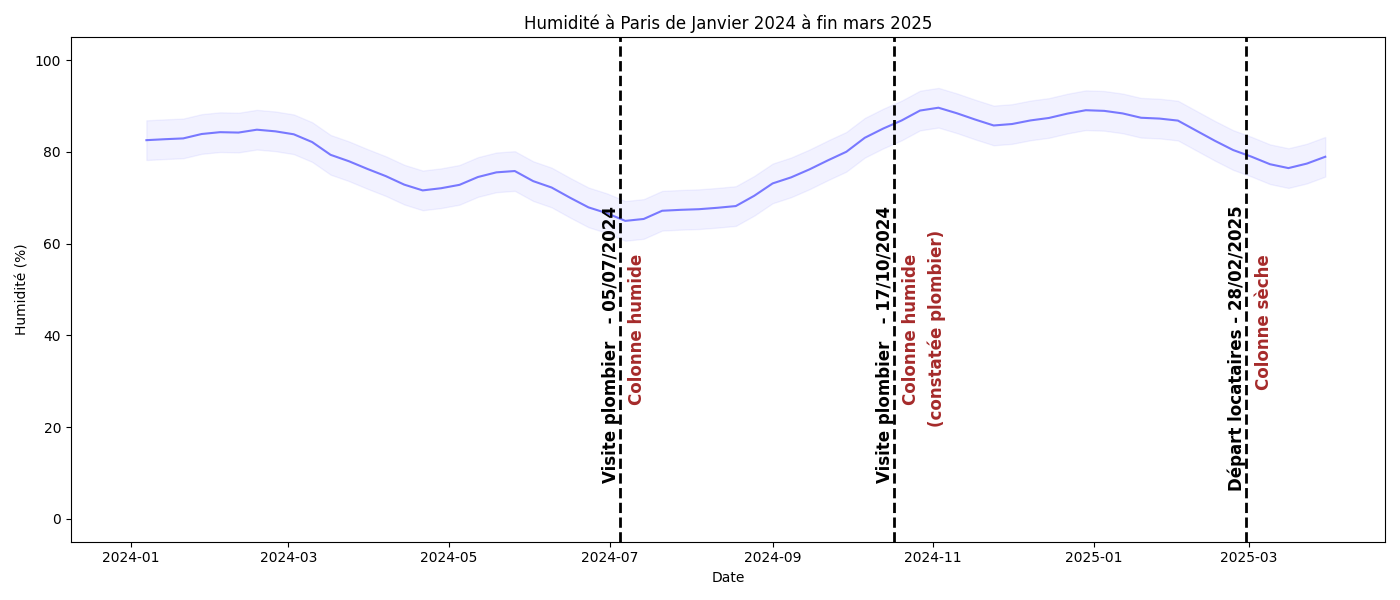
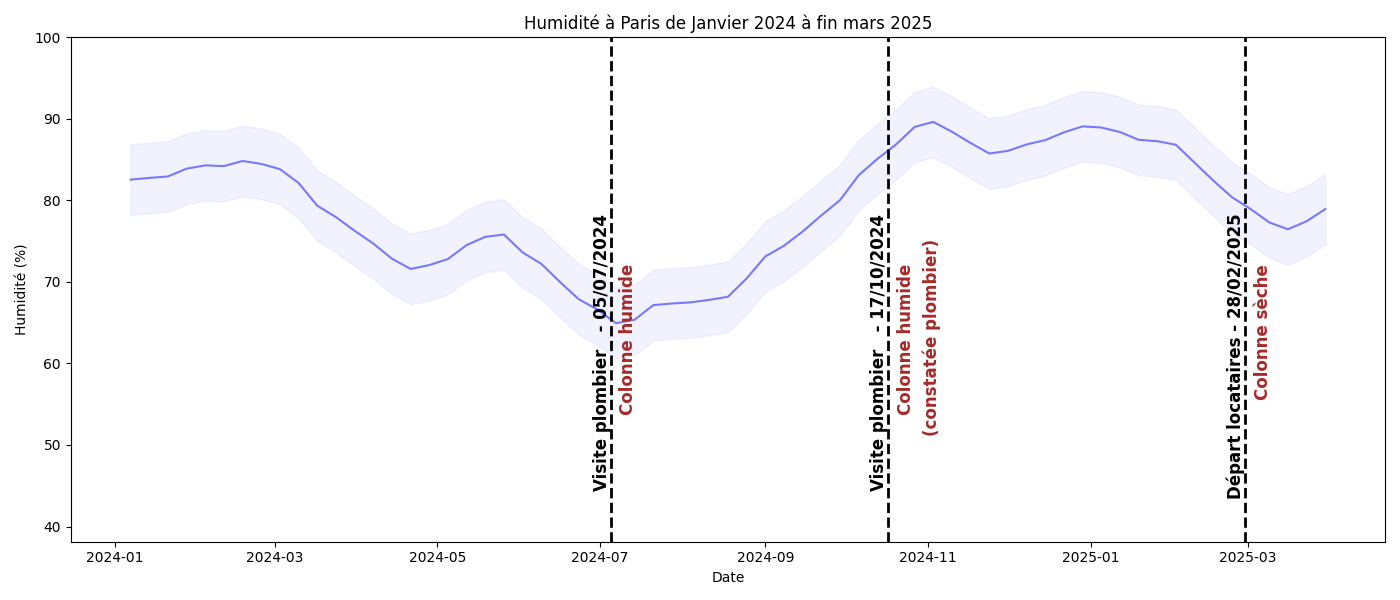
adding daily data plots + setting canvas dimensions for smoothed data

diff --git a/scripts/plot.py b/scripts/plot.py
@@ -58,14 +58,14 @@ def add_annotations(ax):
     for date_str, label, wetness in ANNOTATIONS:
         date = pd.to_datetime(date_str)
         ax.axvline(x=date, color='black', linestyle='--', linewidth=2)
-        ax.text(date, ax.get_ylim()[1] * 0.65, label,
+        ax.text(date, ax.get_ylim()[0] * 0.35 + ax.get_ylim()[1] * 0.65, label,
                 rotation=90, color='black', fontsize=12, fontweight='bold',
                 verticalalignment='top', horizontalalignment='right')
-        ax.text(date + dt.timedelta(days=10), ax.get_ylim()[1] * 0.55, wetness,
+        ax.text(date + dt.timedelta(days=10), ax.get_ylim()[0] * 0.45 + ax.get_ylim()[1] * 0.55, wetness,
                 rotation=90, color='brown', fontsize=12, fontweight='bold',
                 verticalalignment='top', horizontalalignment='right')
         if '17/10/2024' in label:
-            ax.text(date + dt.timedelta(days=20), ax.get_ylim()[1] * 0.60, '(constatée plombier)',
+            ax.text(date + dt.timedelta(days=20), ax.get_ylim()[0] * 0.40 + ax.get_ylim()[1] * 0.60, '(constatée plombier)',
                     rotation=90, color='brown', fontsize=12, fontweight='bold',
                     verticalalignment='top', horizontalalignment='right')
 
@@ -74,13 +74,15 @@ def plot_variable(cleaned_dir, var):
     df, weekly, trend, ste = read_variable_series(cleaned_dir, var)
 
     fig, ax = plt.subplots(figsize=(14, 6))
-    ax.fill_between(df.index, df['min'], df['max'], color='white', alpha=0.3)
+    # ax.fill_between(df.index, df['min'], df['max'], color='white', alpha=0.3)
     ax.plot(weekly.index, trend, color=COLORS[var], alpha=0.5)
     ax.fill_between(weekly.index, trend - ste, trend + ste, color=COLORS[var], alpha=0.05)
 
     ax.set_ylabel(f"{TITLES[var]} (°C)" if var != 'humidity' else "Humidité (%)")
     ax.set_xlabel("Date")
     ax.set_title(f"{TITLES[var]} à Paris de Janvier 2024 à fin mars 2025")
+
+    ax.set_ylim(df['min'].resample('W').mean().min(), df['max'].resample('W').mean().max())
 
     add_annotations(ax)
     plt.tight_layout()
@@ -147,6 +149,26 @@ def plot_temperature_and_dewpoint(temp_weekly, dew_weekly):
     plt.savefig("data/png/temperature_vs_dewpoint.png")
 
 
+def plot_daily_weather(temp_df, dew_df, humidity_df):
+    fig, axs = plt.subplots(3, 1, figsize=(14, 10), sharex=True)
+
+    axs[2].plot(temp_df.index, temp_df['avg'], color=COLORS['temperature'])
+    axs[2].set_ylabel("Température (°C)")
+    # axs[2].set_title("Température quotidienne")
+
+    axs[1].plot(dew_df.index, dew_df['avg'], color=COLORS['dew_point'])
+    axs[1].set_ylabel("Point de rosée (°C)")
+    # axs[1].set_title("Point de rosée quotidien")
+
+    axs[0].plot(humidity_df.index, humidity_df['avg'], color=COLORS['humidity'])
+    axs[0].set_ylabel("Humidité (%)")
+    axs[0].set_title("Statistiques quotidiennes - moyennes sur la journée")
+    axs[2].set_xlabel("Date")
+
+    plt.tight_layout()
+    plt.savefig("data/png/daily_weather_combined.png")
+
+
 if __name__ == "__main__":
     parser = argparse.ArgumentParser()
     parser.add_argument("--cleaned-dir", required=True, help="Path to cleaned CSV files")
@@ -163,3 +185,4 @@ if __name__ == "__main__":
     plot_condensation_probability(temp_df, dew_df)
     plot_excess_dew_vs_tmin(temp_df, dew_df)
     plot_temperature_and_dewpoint(temp_weekly, dew_weekly)
+    plot_daily_weather(temp_df, dew_df, humidity_df)
